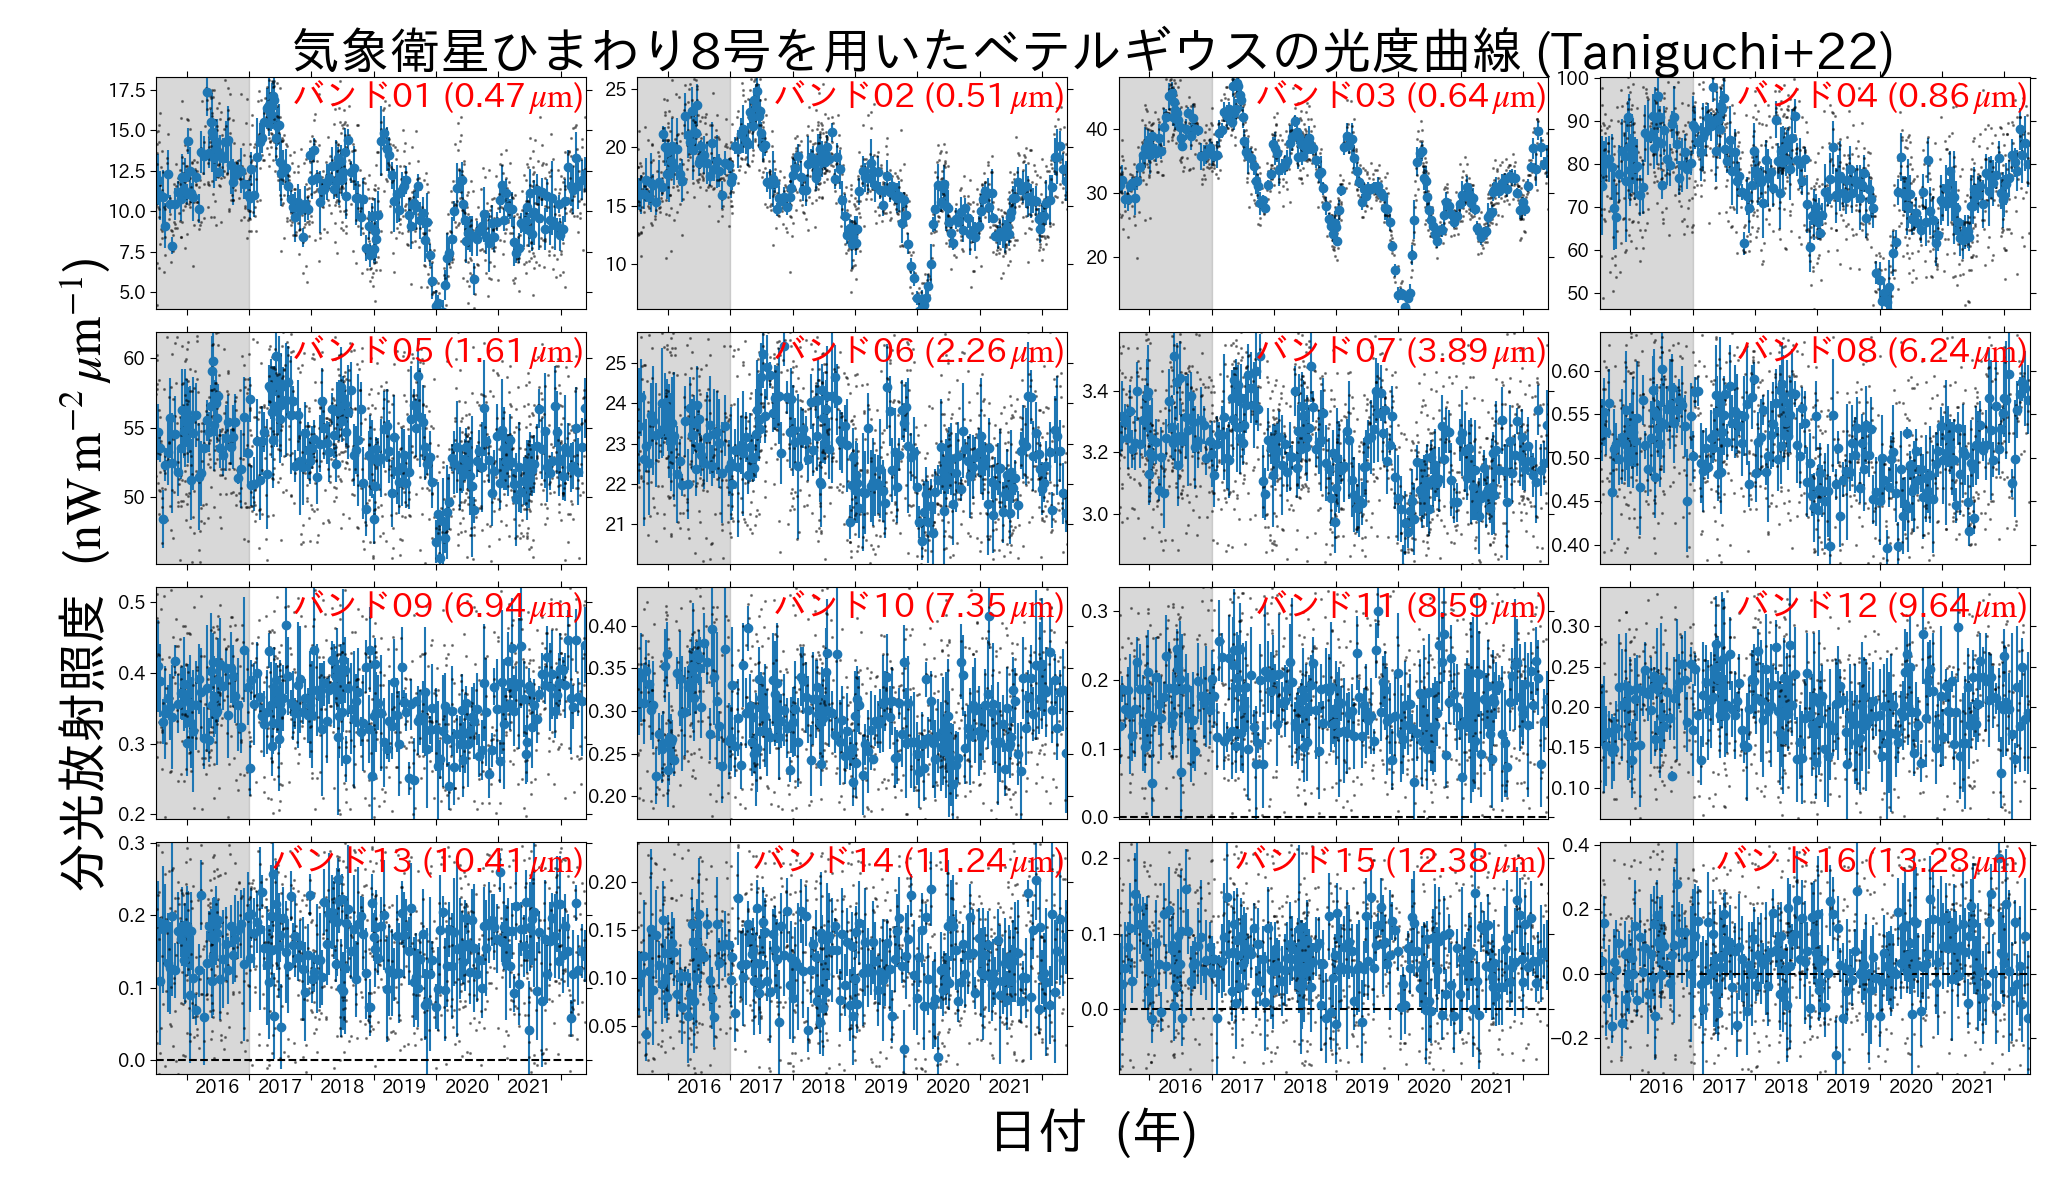
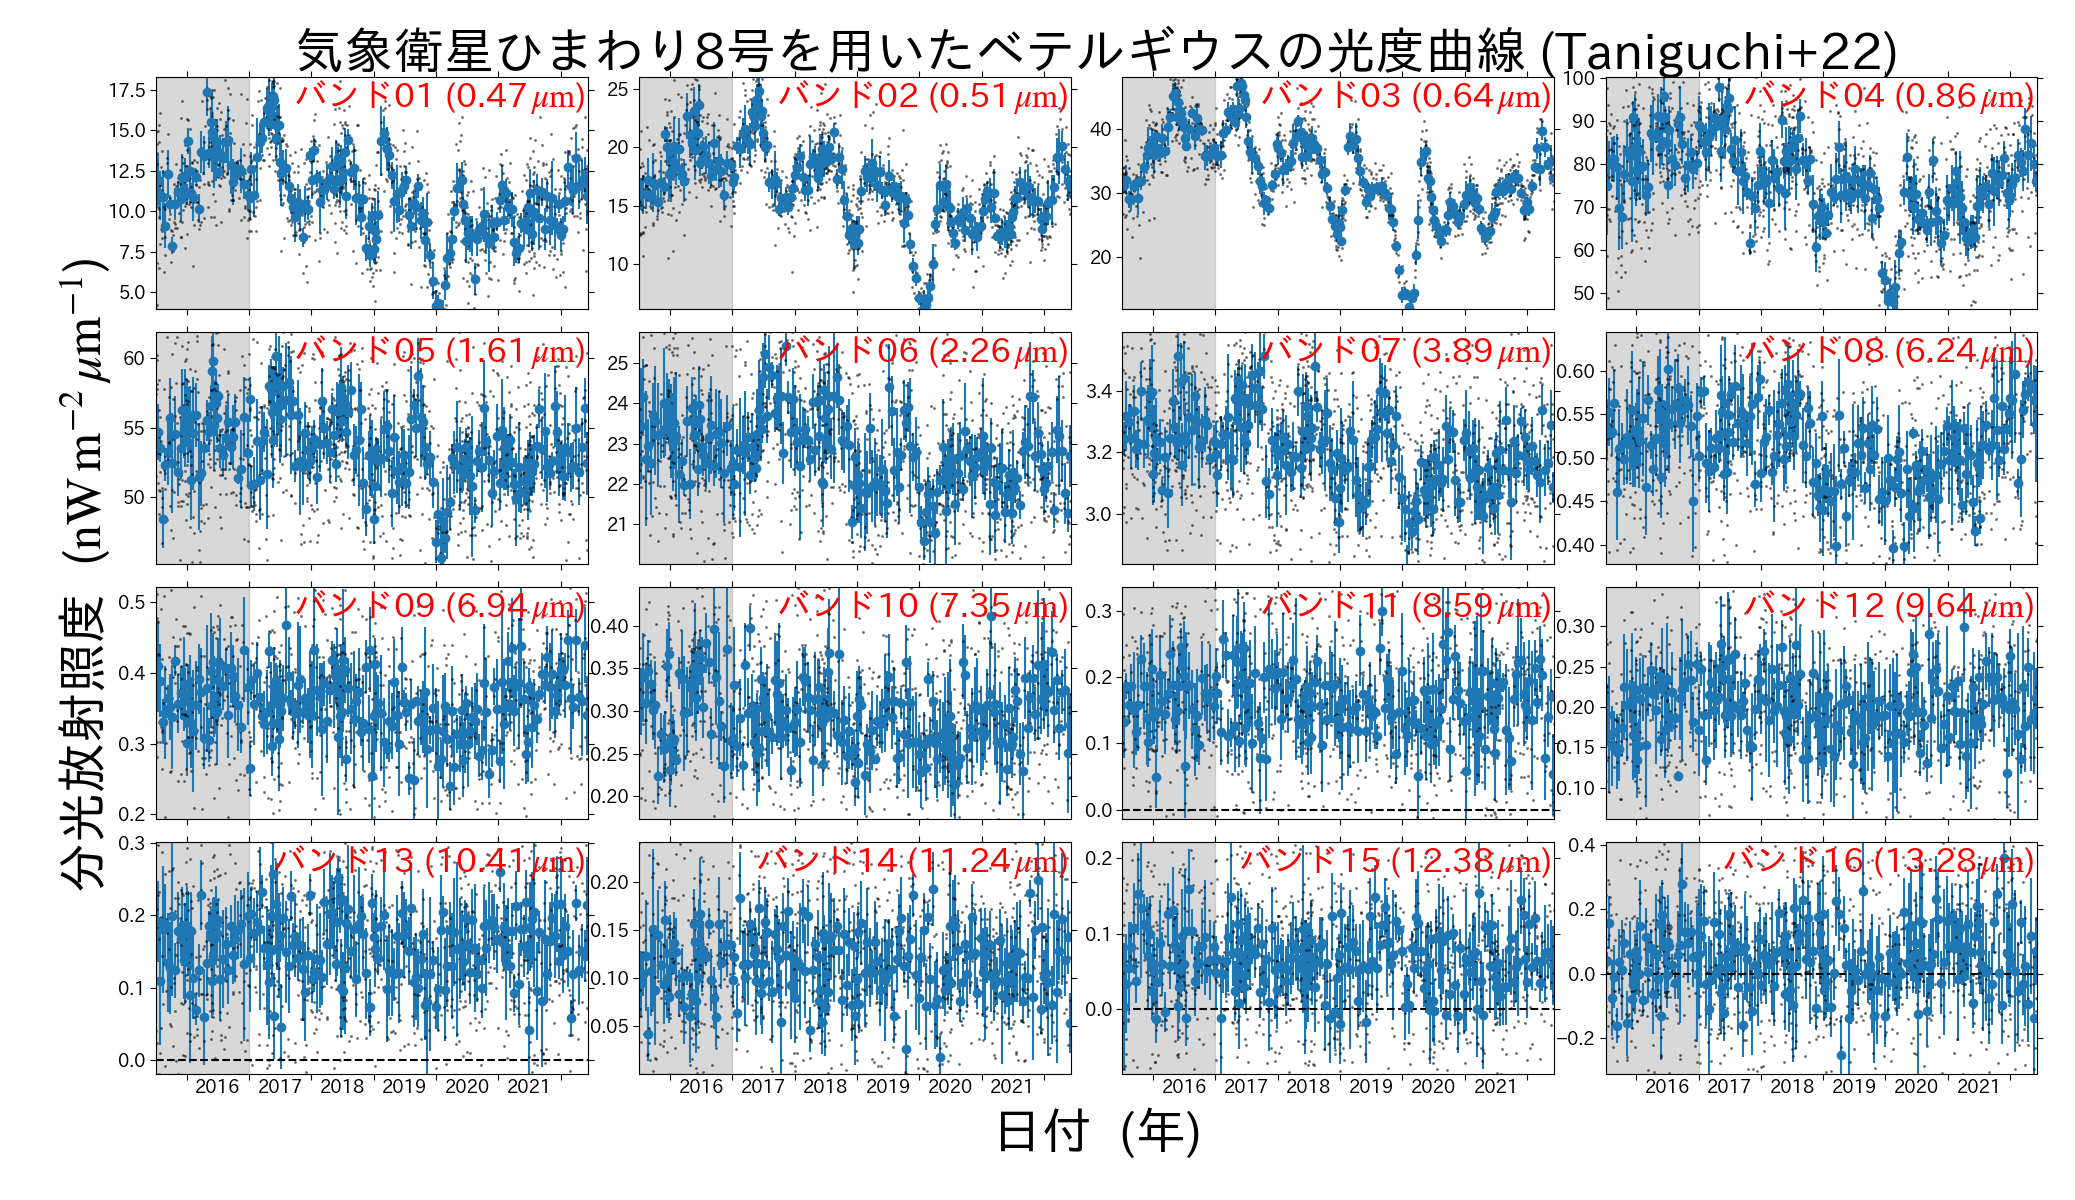
Update photometry

diff --git a/Data_Himawari/Data_Himawari_Betelgeuse_table.html b/Data_Himawari/Data_Himawari_Betelgeuse_table.html
@@ -3,11 +3,19 @@
 <link rel="stylesheet" href="../css/style_intable.css">
 </head>
 
-<p>Last updated on 2022-05-29T08:56:21</p>
+<p>Last updated on 2022-06-07T06:45:46</p>
 
 <table class="Himawari-Betelgeuse">
 	<tr><th class="text-center">Date (UTC)      </th><th colspan="2" class="text-left">AB magnitude</th><th colspan="16" class="text-left">Spectral irradiance [nW/m^2/micron]</th></tr>
 	<tr><th class="text-center">accuracy = 10min</th><th>Band 02</th><th>Band 03</th><th>Band 01    </th><th>Band 02    </th><th>Band 03    </th><th>Band 04    </th><th>Band 05    </th><th>Band 06    </th><th>Band 07    </th><th>Band 08    </th><th>Band 09    </th><th>Band 10    </th><th>Band 11    </th><th>Band 12    </th><th>Band 13    </th><th>Band 14    </th><th>Band 15    </th><th>Band 16    </th></tr>
+	<tr><th class="text-center">2022-06-06 15:10</th><td> 1.1547</td><td>-0.0827</td><td> 9.7977E+00</td><td> 1.4448E+01</td><td> 2.8753E+01</td><td> 7.6609E+01</td><td> 5.2856E+01</td><td> 2.2805E+01</td><td> 3.0598E+00</td><td> 5.0231E-01</td><td>           </td><td> 2.3932E-01</td><td> 1.2915E-01</td><td> 2.8455E-01</td><td> 1.8519E-01</td><td> 1.2092E-01</td><td> 1.3138E-01</td><td>-7.7694E-02</td></tr>
+	<tr><th class="text-center">2022-06-04 16:00</th><td> 1.1678</td><td>-0.2560</td><td> 1.3788E+01</td><td> 1.4275E+01</td><td> 3.3730E+01</td><td> 6.8669E+01</td><td> 5.4638E+01</td><td> 2.0701E+01</td><td> 3.1246E+00</td><td> 5.5986E-01</td><td> 2.7854E-01</td><td> 3.2050E-01</td><td> 2.4144E-02</td><td>           </td><td> 7.1533E-02</td><td> 4.1939E-02</td><td> 1.7436E-02</td><td> 7.8366E-02</td></tr>
+	<tr><th class="text-center">2022-06-02 16:10</th><td> 0.9156</td><td>-0.1739</td><td> 1.2779E+01</td><td> 1.8008E+01</td><td> 3.1272E+01</td><td> 7.6520E+01</td><td> 6.0365E+01</td><td> 2.1559E+01</td><td> 3.2428E+00</td><td> 5.3544E-01</td><td> 3.6433E-01</td><td> 3.1962E-01</td><td>-8.2211E-03</td><td> 1.8713E-01</td><td> 2.0147E-01</td><td> 5.5356E-02</td><td> 7.6336E-02</td><td> 6.5673E-02</td></tr>
+	<tr><th class="text-center">2022-06-02 15:30</th><td>       </td><td>       </td><td>           </td><td>           </td><td>           </td><td> 7.2754E+01</td><td> 4.6192E+01</td><td> 2.3051E+01</td><td> 3.0650E+00</td><td>           </td><td>           </td><td>           </td><td>           </td><td>           </td><td>           </td><td>           </td><td>           </td><td>           </td></tr>
+	<tr><th class="text-center">2022-06-01 15:30</th><td> 0.8372</td><td>-0.2087</td><td> 1.0019E+01</td><td> 1.9356E+01</td><td> 3.2293E+01</td><td> 7.7941E+01</td><td> 5.2562E+01</td><td> 2.4790E+01</td><td> 2.8931E+00</td><td> 4.0262E-01</td><td> 2.7813E-01</td><td> 2.2279E-01</td><td> 1.1146E-01</td><td> 2.8150E-01</td><td> 1.2236E-01</td><td> 7.7851E-02</td><td> 2.3948E-01</td><td> 1.6898E-01</td></tr>
+	<tr><th class="text-center">2022-05-31 16:20</th><td> 1.0603</td><td>-0.2267</td><td> 1.2118E+01</td><td> 1.5761E+01</td><td> 3.2832E+01</td><td> 7.8408E+01</td><td> 5.1934E+01</td><td> 2.2737E+01</td><td> 3.0437E+00</td><td> 6.1294E-01</td><td>           </td><td> 2.7953E-01</td><td>           </td><td> 2.2452E-01</td><td> 2.2927E-01</td><td> 5.2515E-02</td><td> 4.7404E-02</td><td>-1.1512E-01</td></tr>
+	<tr><th class="text-center">2022-05-30 16:20</th><td> 1.0159</td><td>-0.1919</td><td> 8.9137E+00</td><td> 1.6418E+01</td><td> 3.1797E+01</td><td> 7.3886E+01</td><td> 4.6875E+01</td><td> 2.3164E+01</td><td> 3.1830E+00</td><td> 4.3293E-01</td><td> 3.4921E-01</td><td> 2.2108E-01</td><td> 2.3247E-01</td><td> 1.6135E-01</td><td> 3.7259E-01</td><td>-8.3787E-02</td><td> 8.3071E-02</td><td> 4.3046E-01</td></tr>
+	<tr><th class="text-center">2022-05-30 15:40</th><td> 0.9923</td><td>-0.2083</td><td> 6.2985E+00</td><td> 1.6779E+01</td><td> 3.2280E+01</td><td> 8.2133E+01</td><td> 5.3970E+01</td><td>           </td><td> 3.0508E+00</td><td> 6.8743E-01</td><td> 5.1223E-01</td><td> 3.0524E-01</td><td> 1.1099E-02</td><td>           </td><td> 2.9749E-01</td><td> 1.2173E-01</td><td>-1.1138E-01</td><td>-7.5298E-02</td></tr>
 	<tr><th class="text-center">2022-05-25 16:40</th><td> 1.1341</td><td>-0.3171</td><td> 1.5801E+01</td><td> 1.4724E+01</td><td> 3.5682E+01</td><td> 8.4460E+01</td><td> 5.5524E+01</td><td> 2.0501E+01</td><td> 3.3574E+00</td><td> 4.4913E-01</td><td> 5.0095E-01</td><td> 2.8009E-01</td><td> 1.7963E-01</td><td> 2.0694E-01</td><td> 2.1684E-01</td><td> 1.6821E-01</td><td> 1.5336E-01</td><td>-3.1729E-01</td></tr>
 	<tr><th class="text-center">2022-05-25 16:00</th><td> 1.0321</td><td>-0.0352</td><td> 1.2597E+01</td><td> 1.6176E+01</td><td> 2.7524E+01</td><td> 6.4069E+01</td><td> 5.5477E+01</td><td> 2.1018E+01</td><td> 3.3251E+00</td><td> 5.8953E-01</td><td> 3.0952E-01</td><td> 2.9766E-01</td><td> 1.6498E-01</td><td> 4.4864E-01</td><td> 5.3232E-02</td><td> 1.4656E-01</td><td> 5.7367E-02</td><td>-2.3097E-01</td></tr>
 	<tr><th class="text-center">2022-05-20 17:00</th><td> 0.7879</td><td>-0.4220</td><td> 1.2486E+01</td><td> 2.0254E+01</td><td> 3.9303E+01</td><td> 7.5543E+01</td><td> 5.7668E+01</td><td> 2.1076E+01</td><td> 3.5489E+00</td><td> 5.6248E-01</td><td> 3.8254E-01</td><td> 1.5556E-01</td><td> 1.7960E-01</td><td> 5.8734E-02</td><td> 1.1012E-01</td><td> 1.1787E-01</td><td> 3.5825E-02</td><td> 4.7315E-01</td></tr>
